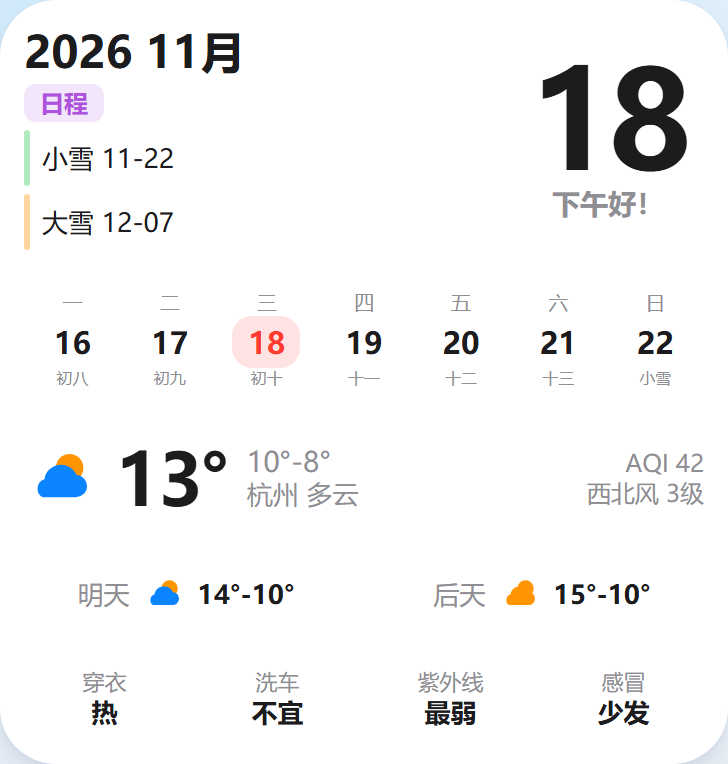
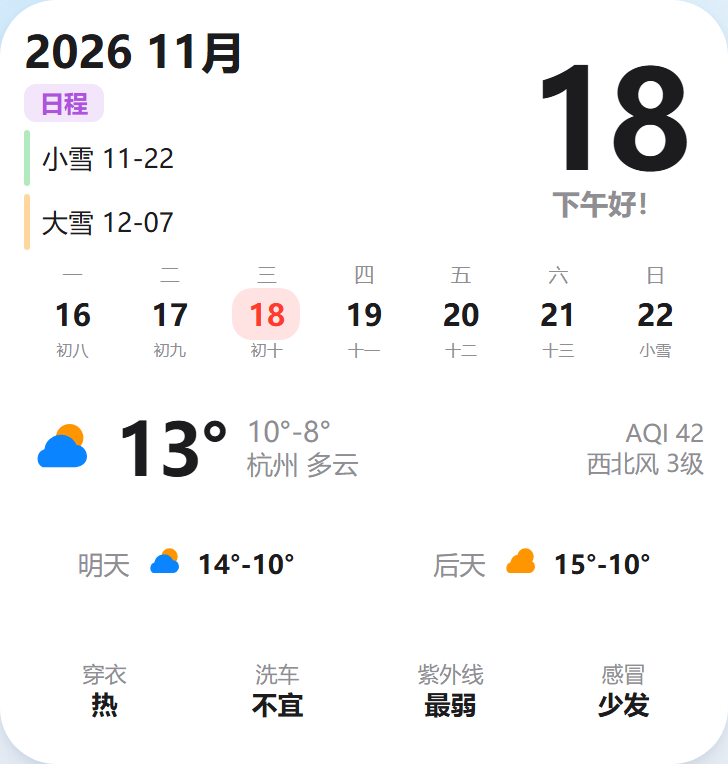
Tighten calendar spacing and raise weather block

diff --git a/preview/预览.html b/preview/预览.html
@@ -70,7 +70,7 @@
   }
 
   .widget {
-    width: 364px; height: 382px; border-radius: 28px; padding: 12px;
+    width: 364px; height: 382px; border-radius: 28px; padding: 12px 12px 16px;
     display: flex; flex-direction: column; overflow: hidden;
     color: var(--text); background: var(--bg);
     box-shadow: 0 22px 46px rgba(0,0,0,.35), 0 2px 5px rgba(0,0,0,.18);
@@ -195,8 +195,6 @@
         </div>
       </div>
 
-      <div class="l-spacer"></div>
-
       <div class="l-week" id="week-dark"></div>
 
       <div class="l-spacer"></div>
@@ -233,6 +231,7 @@
       </div>
 
       <div class="l-spacer"></div>
+      <div class="l-spacer"></div>
 
       <div class="l-life">
         <div class="l-lifeitem"><span class="lab">穿衣</span><span class="val">热</span></div>
@@ -260,8 +259,6 @@
           <div class="l-greet">下午好！</div>
         </div>
       </div>
-
-      <div class="l-spacer"></div>
 
       <div class="l-week" id="week-light"></div>
 
@@ -298,6 +295,7 @@
         </div>
       </div>
 
+      <div class="l-spacer"></div>
       <div class="l-spacer"></div>
 
       <div class="l-life">

diff --git a/widget.tsx b/widget.tsx
@@ -805,7 +805,11 @@ function MediumWidget({ model }: { model: WeatherModel }) {
   const cellWidth = Math.max(32, Math.min(42, Math.floor((widgetWidth - 24 - 18) / 7)))
 
   return (
-    <VStack alignment="leading" spacing={6} padding={12}>
+    <VStack
+      alignment="leading"
+      spacing={6}
+      padding={{ horizontal: 12, top: 12, bottom: 16 }}
+    >
       <HStack alignment="center" spacing={8}>
         <VStack alignment="leading" spacing={1}>
           <HStack spacing={5}>
@@ -1059,8 +1063,6 @@ function LargeWidget({ model, name }: { model: WeatherModel; name: string }) {
         </VStack>
       </HStack>
 
-      <Spacer />
-
       <WeekStrip date={now} />
 
       <Spacer />
@@ -1102,6 +1104,7 @@ function LargeWidget({ model, name }: { model: WeatherModel; name: string }) {
         <NextDayCard label="后天" day={dayAfter} width={(contentWidth - 16) / 2} />
       </HStack>
 
+      <Spacer />
       <Spacer />
 
       {lifeItems.length > 0 ? (
